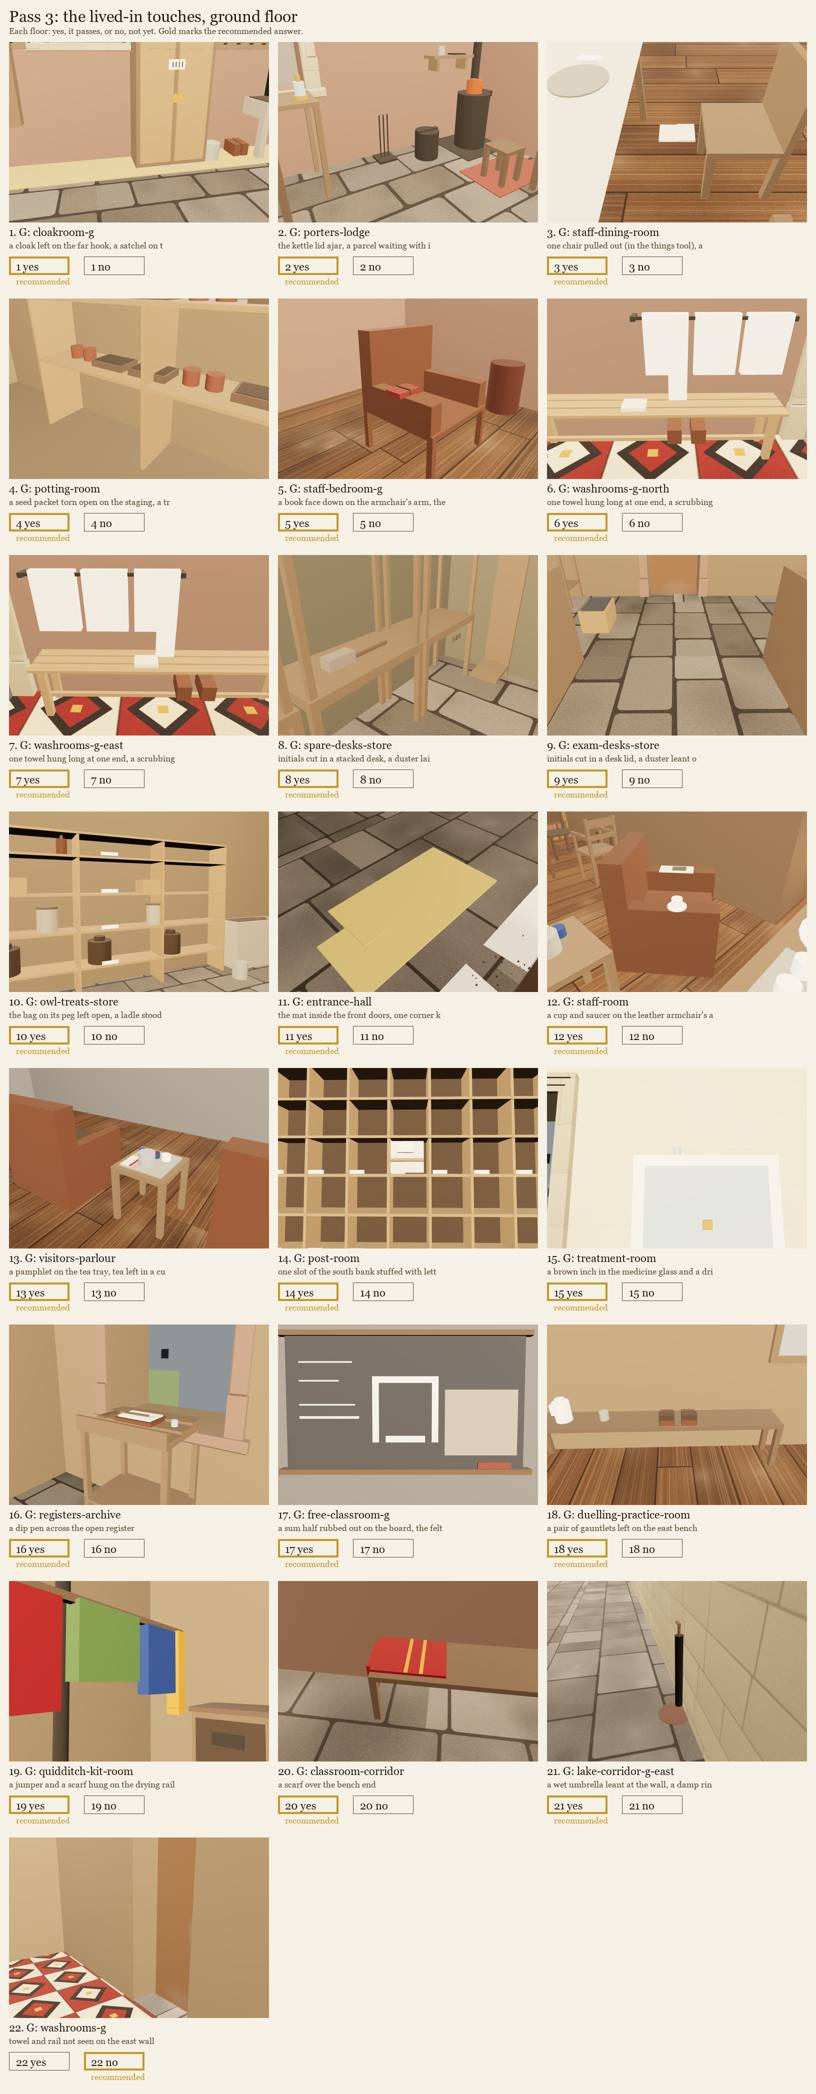
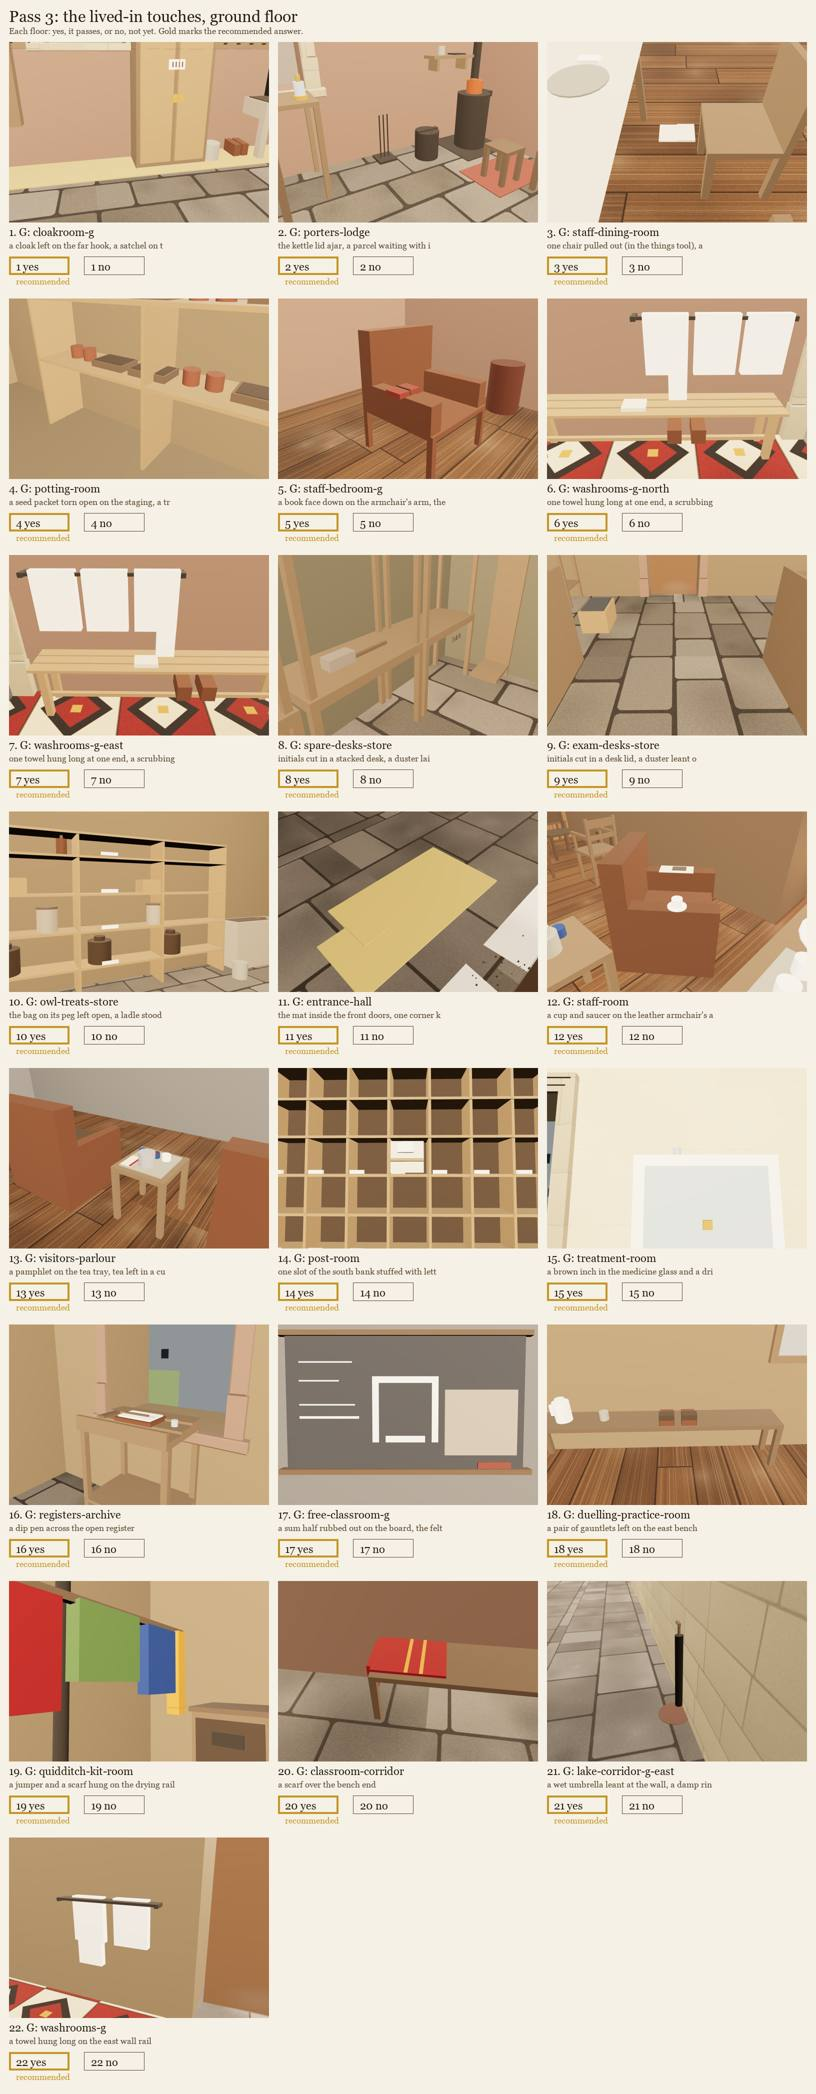
washrooms-g east wall fix, Pass 3 sheet

Changed region(s): [[0.0, 0.8691, 0.337, 0.9933]]

diff --git a/page/shell-w5a.js b/page/shell-w5a.js
@@ -65,9 +65,9 @@ window.SHELL_W5A = {
       ['y', 1.925, 12.5, 0.2, 0, 0.4, 'white'], ['y', 1.925, 12.5, 0.21, 0.4, 0.43, 'oak'], ['b', 1.625, 11.98, 2.1, 2.225, 12.3, 2.42, 'iron'], ['b', 1.905, 11.98, 0.4, 1.945, 12.06, 2.1, 'iron'],
       ['b', 1.5, 16.5, 0.15, 1.53, 18.0, 2.0, 'pine'], ['b', 2.32, 16.5, 0.15, 2.35, 18.0, 2.0, 'pine'], ['b', 2.32, 16.5, 0.3, 3.15, 16.53, 2.0, 'pine'], ['b', 1.5, 16.5, 2.0, 2.35, 18.0, 2.06, 'pine'],
       ['y', 1.925, 17.5, 0.2, 0, 0.4, 'white'], ['y', 1.925, 17.5, 0.21, 0.4, 0.43, 'oak'], ['b', 1.625, 17.7, 2.1, 2.225, 18.02, 2.42, 'iron'], ['b', 1.905, 17.94, 0.4, 1.945, 18.02, 2.1, 'iron'],
-      ['b', 6.9, 15.735, 0.97, 7.02, 15.765, 1.0, 'iron'], ['b', 6.9, 16.635, 0.97, 7.02, 16.665, 1.0, 'iron'], ['b', 6.9, 15.75, 0.98, 7.02, 16.65, 1.0, 'iron'], ['b', 6.94, 15.83, 0.62, 7.02, 16.13, 1.02, 'white'],
-      ['b', 6.94, 16.23, 0.62, 7.02, 16.53, 1.02, 'white'], ['y', 6.7, 17.7, 0.14, 0, 0.28, 'tin'], ['y', 6.7, 17.7, 0.145, 0.26, 0.28, 'iron'], ['y', 6.35, 17.7, 0.09, 0, 0.18, 'rope'],
-      ['y', 6.35, 17.7, 0.015, 0.18, 1.35, 'wood'], ['y', 0.3, 15.9, 0.15, 0, 0.35, 'wicker']] },
+      ['b', 6.1, 15.735, 0.97, 6.22, 15.765, 1.0, 'iron'], ['b', 6.1, 16.635, 0.97, 6.22, 16.665, 1.0, 'iron'], ['b', 6.1, 15.75, 0.98, 6.22, 16.65, 1.0, 'iron'], ['b', 6.14, 15.83, 0.62, 6.22, 16.13, 1.02, 'white'],
+      ['b', 6.14, 16.23, 0.62, 6.22, 16.53, 1.02, 'white'], ['y', 5.9, 17.7, 0.14, 0, 0.28, 'tin'], ['y', 5.9, 17.7, 0.145, 0.26, 0.28, 'iron'], ['y', 5.55, 17.7, 0.09, 0, 0.18, 'rope'],
+      ['y', 5.55, 17.7, 0.015, 0.18, 1.35, 'wood'], ['y', 0.3, 15.9, 0.15, 0, 0.35, 'wicker']] },
     /* G-THINGS end washrooms-g */
     /* G-THINGS lake-corridor-g-east */
     /* docs/interiors/ground-floor-lived-in-1029.md (req 1897): a plank bench on the north wall (x 116.0 to 117.6) with a parcel left on it for the post clerk, between the parlour and the post room; 1.95 clear */
@@ -3177,7 +3177,7 @@ window.SHELL_W5A = {
   /* G-TOUCHES washrooms-g */
   /* washrooms-g: a towel hung long and uneven on the rail */
   add('washrooms-g', [
-    ['b', 6.94, 16.26, 0.4, 7.02, 16.5, 0.64, 'white']]);
+    ['b', 6.14, 16.26, 0.4, 6.22, 16.5, 0.64, 'white']]);
   /* G-TOUCHES end washrooms-g */
 })(window.SHELL_W5A.things);
 /* G-TOUCHES finish */

diff --git a/page/shell.html b/page/shell.html
@@ -191,7 +191,7 @@ line, the mote, travel and reveal) is castle.js's, unedited.
 <script src="depth-ties.js?v=1"></script>
 <script src="corridor/suit.js?v=6"></script>
 <script src="corridor/knight.js?v=2"></script>
-<script src="shell-w5a.js?v=67"></script>
+<script src="shell-w5a.js?v=68"></script>
 <script src="castle-events.js?v=40"></script>
 <script src="chess-core.js?v=2"></script>
 <script src="castle-sky.js?v=1"></script>
